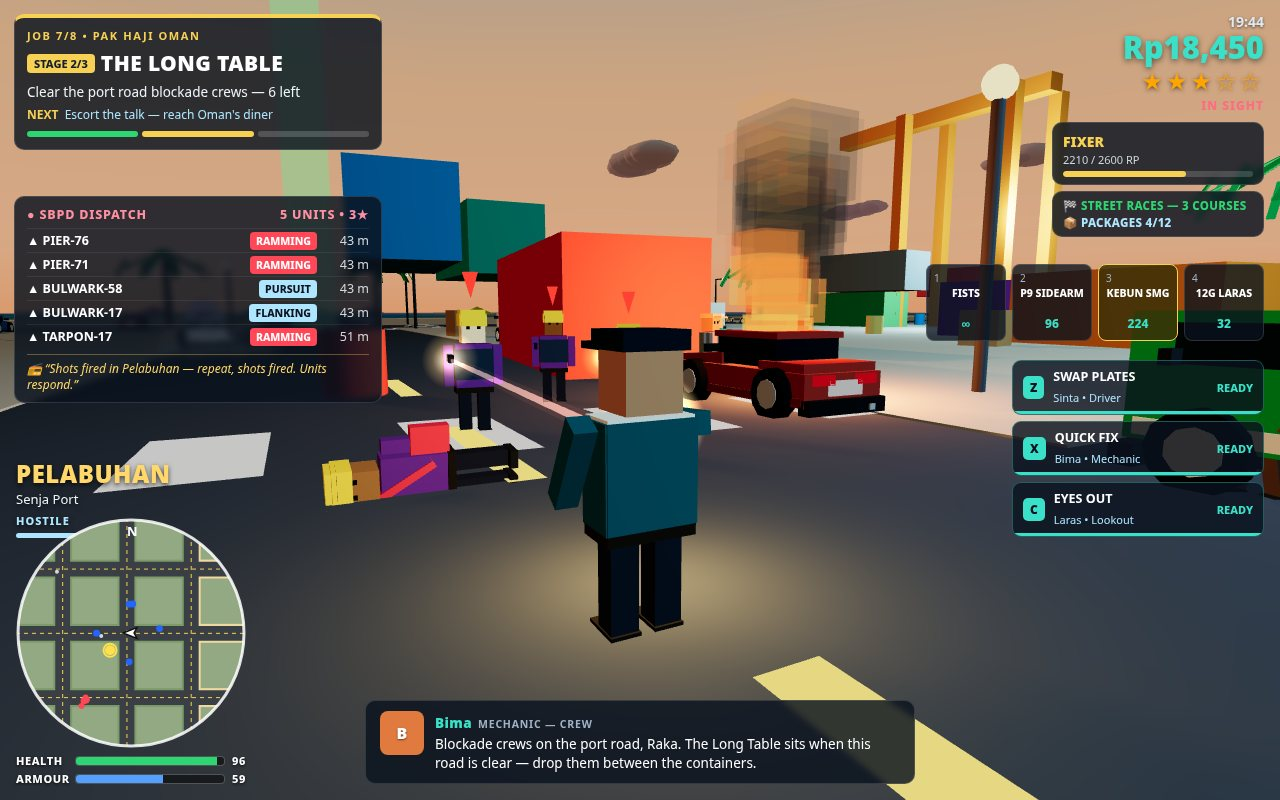
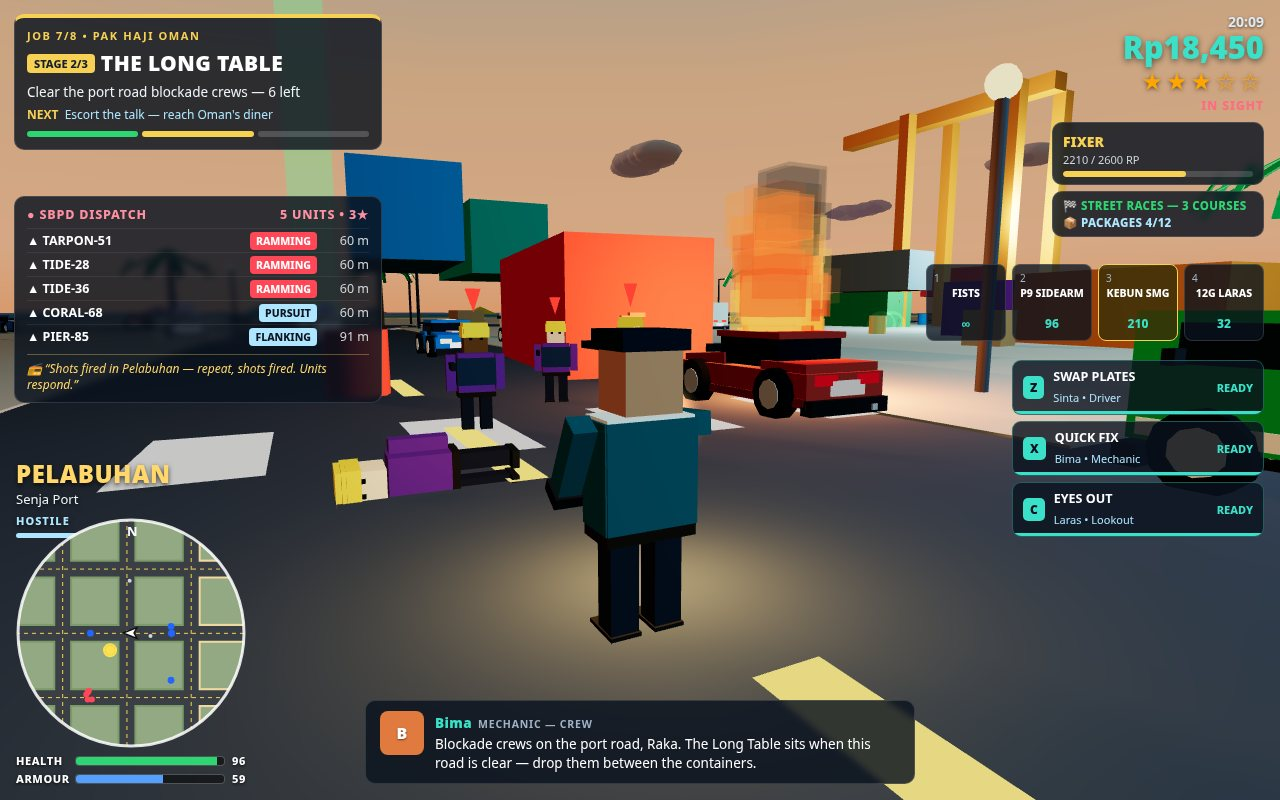
Senja Bay v5 port polish: flame core reads at judge scale

diff --git a/game/src/main.js b/game/src/main.js
@@ -610,6 +610,7 @@ function damageCar(car, dmg, at) {
 const fireLight = new THREE.PointLight(0xff8a3d, 0, 30, 1.6);
 scene.add(fireLight);
 const FLAME_COLS = [0xff7a2e, 0xffb03a, 0xe64a19];
+const CORE_COLS = [0xff9a1f, 0xffa726, 0xff8a1e];
 function updateCarFires(dt, now) {
   let lightCar = null;
   for (const car of cars) {
@@ -635,9 +636,27 @@ function updateCarFires(dt, now) {
       // and cabin — and climbs clear of the roof: four tall
       // tongues per tick, ~3 m of fire before the smoke (which
       // now starts above the roofline) takes it.
-      for (let i = 0; i < 2; i++) fx.spawn(hx, 1.25, hz, { n: 1, color: FLAME_COLS[(Math.random() * 3) | 0], opacity: 0.85, size: 2.3, spread: 0.9, up: 4.6, life: 0.75, grow: 1.0, drag: 0.6 });
-      for (let i = 0; i < 2; i++) fx.spawn(car.pos.x, 1.35, car.pos.z, { n: 1, color: FLAME_COLS[(Math.random() * 3) | 0], opacity: 0.85, size: 2.3, spread: 0.9, up: 4.6, life: 0.75, grow: 1.0, drag: 0.6 });
-      fx.spawn(hx, 2.4, hz, { n: 1, color: 0x2e2e2e, opacity: 0.5, size: 2.1, spread: 0.8, up: 2.8, life: 1.25, grow: 3.0, drag: 1.2 });
+      // The core pass (v5.5, port polish): across a street the
+      // tongues alone still read as a smoky smudge — orange at
+      // half-fade over a bright dusk sky has no contrast, and
+      // the dark smoke boxes rising through the column muddied
+      // what colour there was. So each foot now also grows a
+      // CORE: dense, fully opaque, near-white gold that rises
+      // slowly and dies young, a bright heart the tongues climb
+      // out of; the tongues run denser to meet it, and the
+      // smoke starts higher and thinner so it caps the column
+      // instead of veiling it. In play a wreck now reads as
+      // BURNING from a block away, not merely smoking.
+      // (First core palette was near-white gold — at judge
+      // scale it averaged with the sky into a pale pillar, so
+      // the shipped core runs saturated orange-gold and a size
+      // up, and the smoke cap thinned again: fire first, smoke
+      // as its hat, nothing in between.)
+      for (let i = 0; i < 3; i++) fx.spawn(hx, 1.25, hz, { n: 1, color: FLAME_COLS[(Math.random() * 3) | 0], opacity: 0.9, size: 2.4, spread: 0.9, up: 4.8, life: 0.8, grow: 1.0, drag: 0.6 });
+      for (let i = 0; i < 3; i++) fx.spawn(car.pos.x, 1.35, car.pos.z, { n: 1, color: FLAME_COLS[(Math.random() * 3) | 0], opacity: 0.9, size: 2.4, spread: 0.9, up: 4.8, life: 0.8, grow: 1.0, drag: 0.6 });
+      for (let i = 0; i < 2; i++) fx.spawn(hx, 1.15, hz, { n: 1, color: CORE_COLS[(Math.random() * 3) | 0], opacity: 1.0, size: 2.0, spread: 0.55, up: 2.4, life: 0.6, grow: 0.5, drag: 0.5 });
+      for (let i = 0; i < 2; i++) fx.spawn(car.pos.x, 1.25, car.pos.z, { n: 1, color: CORE_COLS[(Math.random() * 3) | 0], opacity: 1.0, size: 2.0, spread: 0.55, up: 2.4, life: 0.6, grow: 0.5, drag: 0.5 });
+      fx.spawn(hx, 3.4, hz, { n: 1, color: 0x2e2e2e, opacity: 0.32, size: 1.7, spread: 0.8, up: 2.6, life: 1.3, grow: 3.0, drag: 1.2 });
     } else {
       fx.spawn(hx, 1.3, hz, { n: 1, color: 0x777777, opacity: 0.42, size: 1.2, spread: 0.6, up: 2.2, life: 1.0, grow: 2.6, drag: 1.2 });
     }

diff --git a/game/src/shots.js b/game/src/shots.js
@@ -271,7 +271,11 @@ export function stageScene(name, api) {
       // Clock 19.55 at staging — the capture lands in the
       // dusk-night family (~19.9): lamps and port work lights at
       // full strength under a deep teal sky.
-      api.setClock(19.55);
+      // PORT POLISH moved the staging clock to 19.8 (capture
+      // lands ~20.0): the deeper ambient is what lets the v5.5
+      // flame core read as fire at judge scale instead of
+      // washing into the bright dusk sky.
+      api.setClock(19.8);
       api.setStats({ money: 18450, respect: 2210, health: 100, armor: 70 });
       api.startJobAt(6, 1);                    // THE LONG TABLE, clear-the-port-road stage
       api.placeOnFoot(196, 189.5, Math.PI / 2); // port road at the container cluster, firing east

diff --git a/game/src/effects.js b/game/src/effects.js
@@ -6,7 +6,11 @@
 
 import * as THREE from "three";
 
-const POOL_SIZE = 160;
+// 280 since the v5.5 fire pass: one burning car now holds ~150
+// particles alive (tongues + bright core + smoke cap), and the
+// pool is shared with tire smoke and dust — at 160 a second
+// wreck started eating the first one's flames mid-flight.
+const POOL_SIZE = 280;
 
 export class Effects {
   constructor(scene) {
